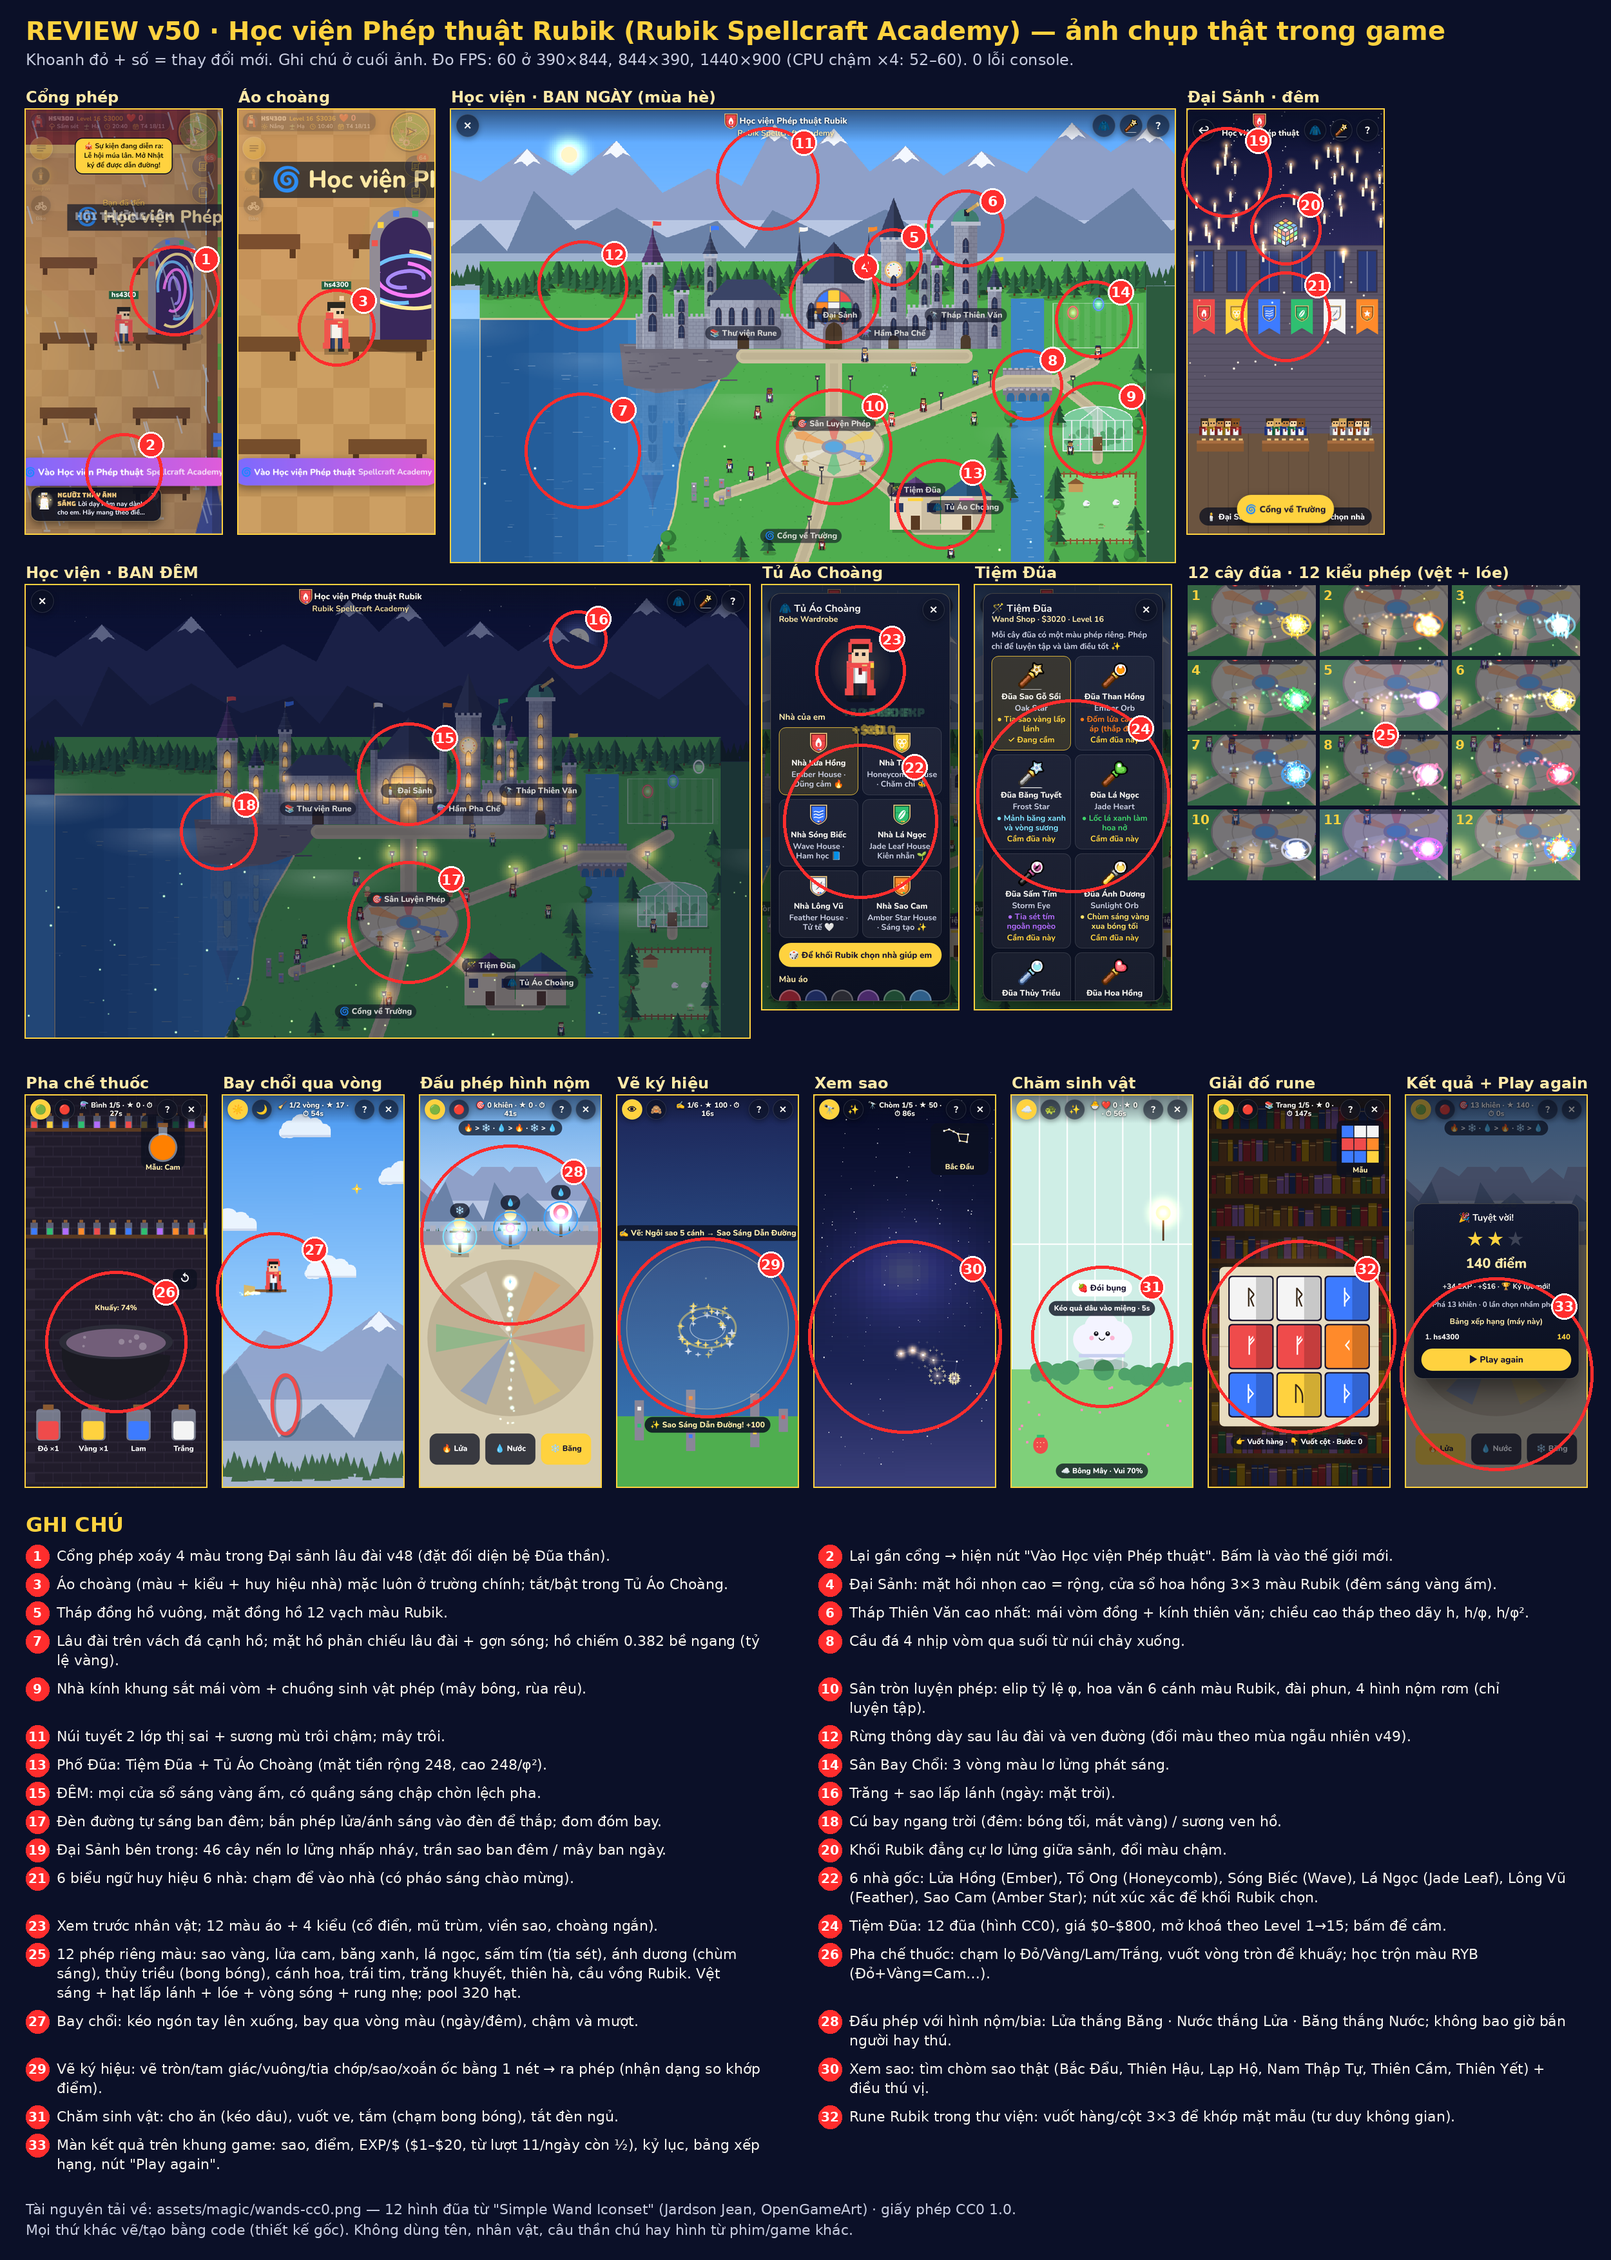
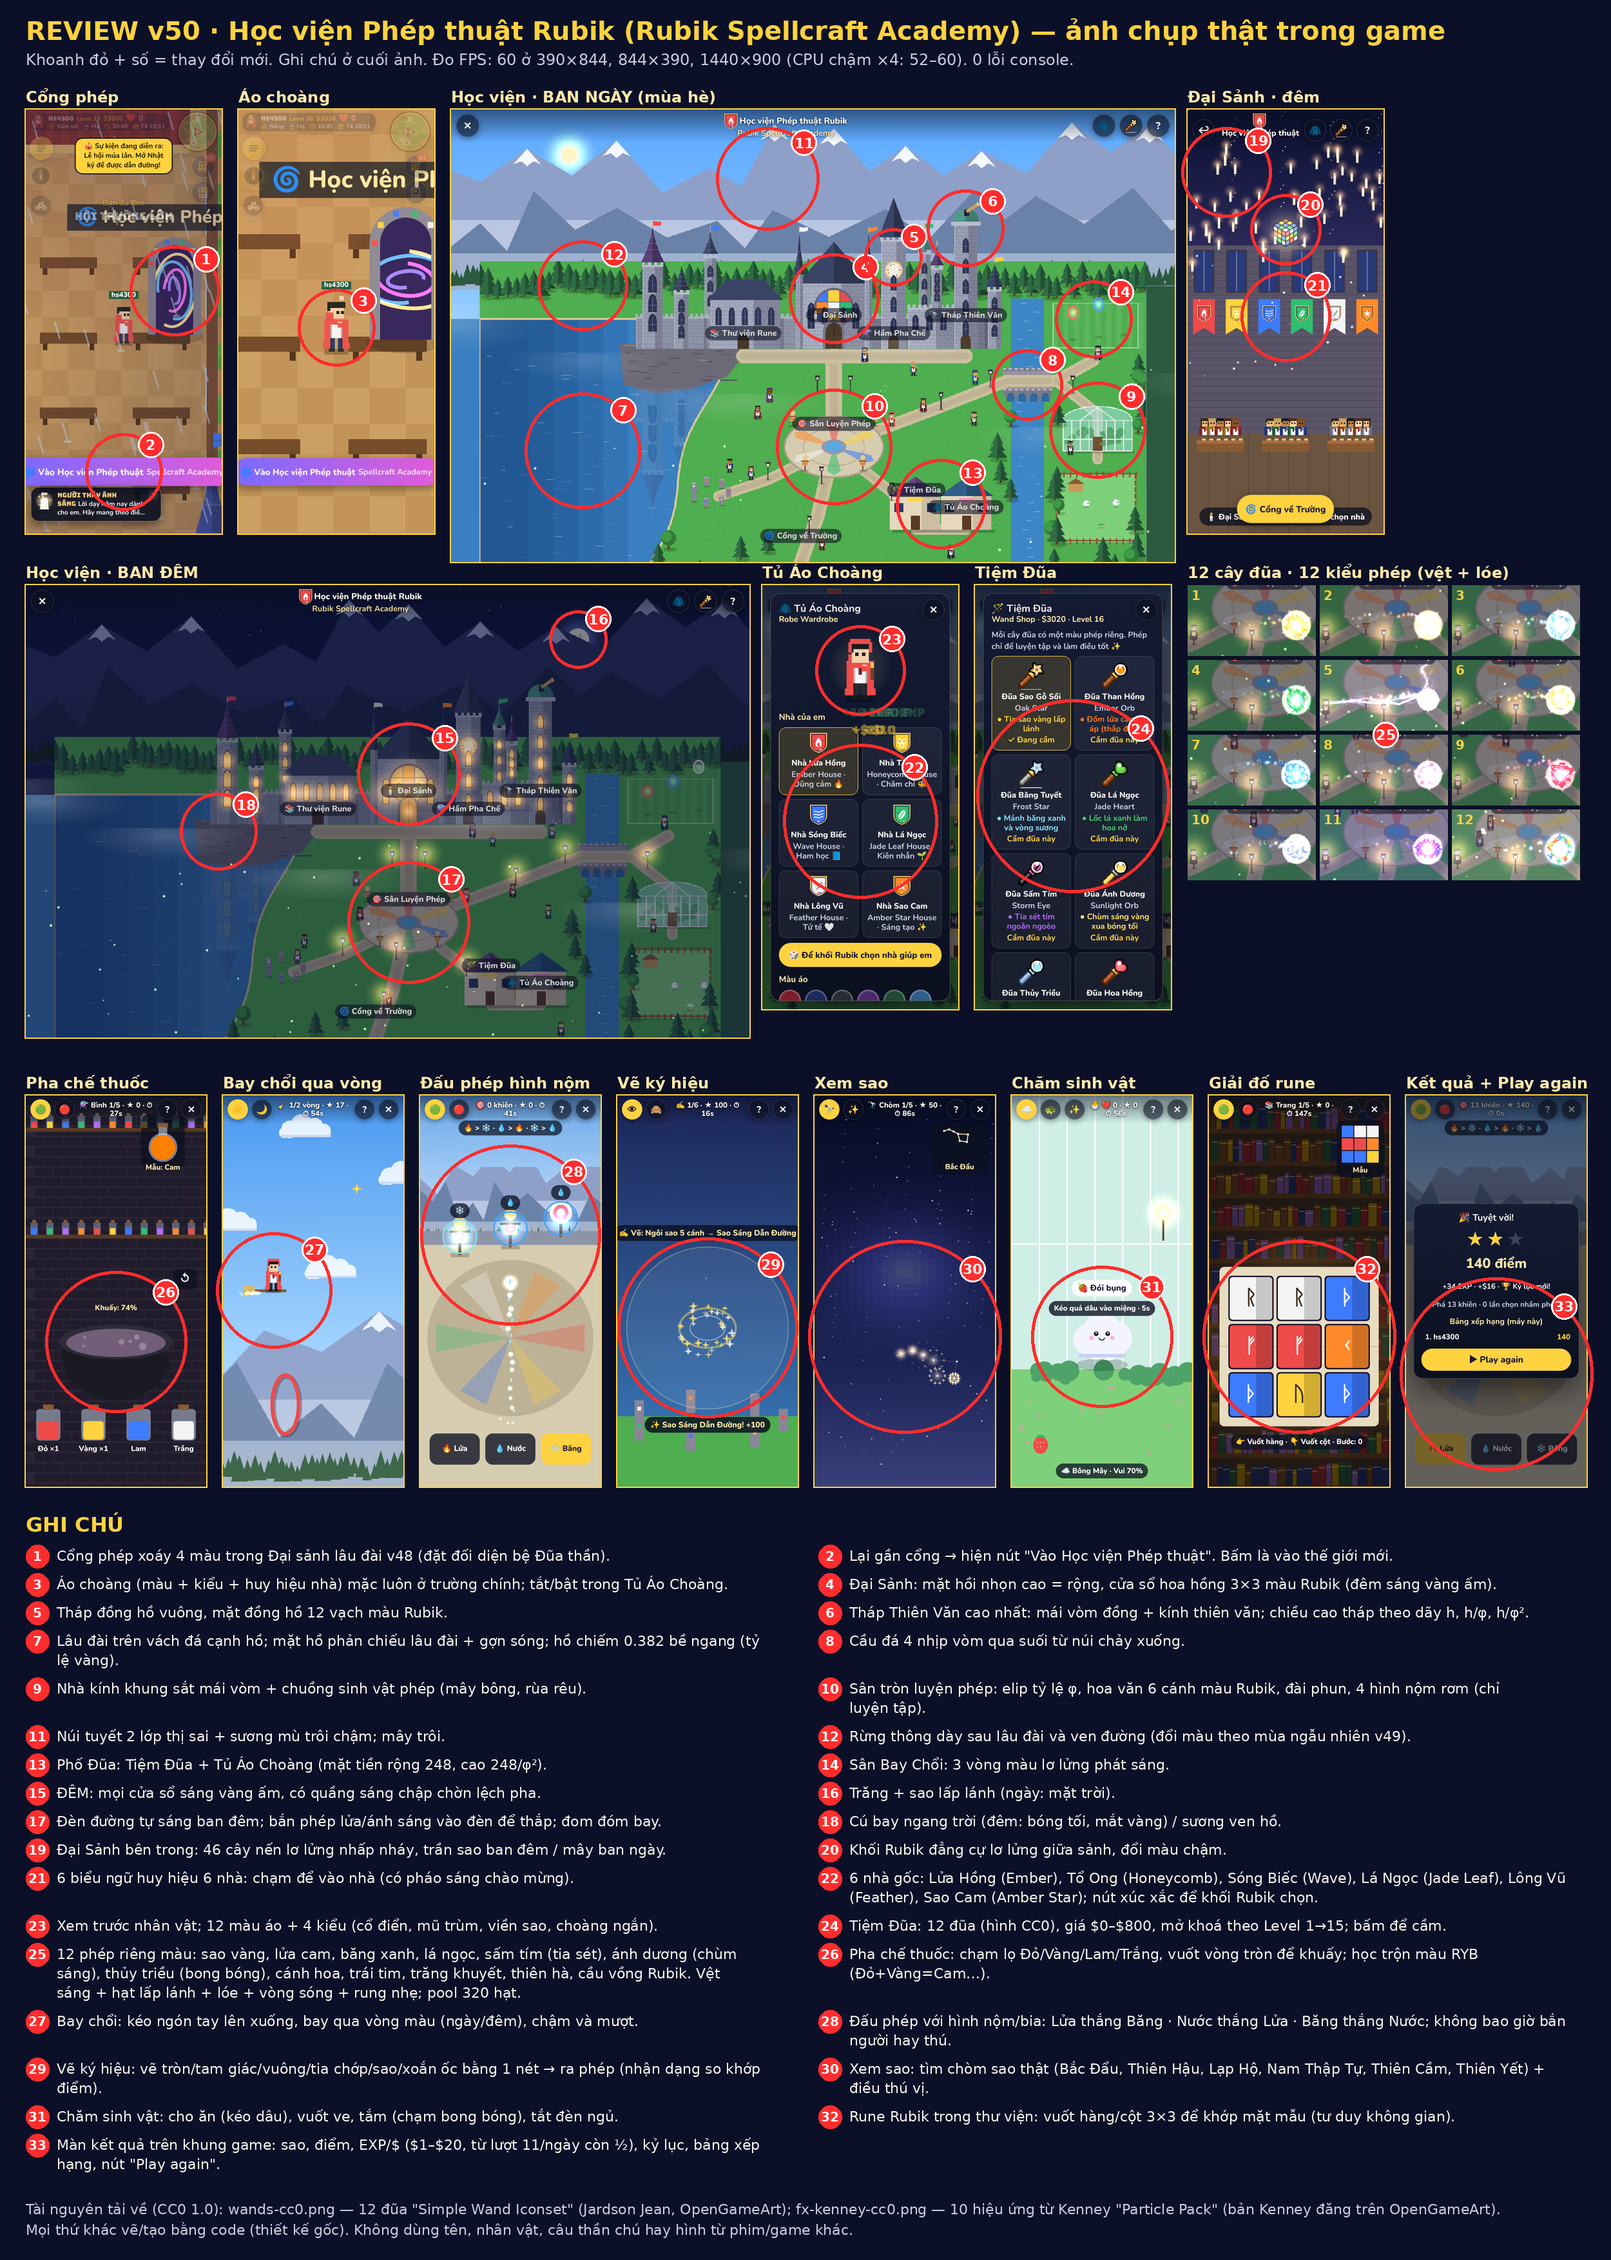
v50: thêm hiệu ứng phép từ Kenney Particle Pack (CC0)
- assets/magic/fx-kenney-cc0.png: 10 hình (vòng phép, lóe, vòng sóng, sao, nổ sáng,
  tia sét, xoáy, tim, vòng rune, lửa) 64px, nhuộm màu theo từng đũa lúc chạy, có cache
- Phép trúng đích: vòng sóng + lóe chữ thập + vòng phép (phép lớn), tia sét thật cho đũa Sấm,
  ngọn lửa, tim, xoáy thiên hà; đầu đạn phép có sao lấp lánh xoay
- Ghi nguồn CREDITS; cập nhật ảnh duyệt

Claude-Session: https://claude.ai/code/session_012QLWnAm9kfcTVAAQrhkbGB

Changed region(s): [[0.8424, 0.2486, 0.9672, 0.404], [0.7488, 0.2486, 0.8112, 0.404], [0.936, 0.373, 0.9672, 0.404]]

diff --git a/school/js/ext/v50-magic-core.js b/school/js/ext/v50-magic-core.js
@@ -126,9 +126,16 @@ function v50Burst(x, y, w, big){
     const img = sh === 'dot' ? v50Glow(col) : v50Shape(sh, col), gr = w.fx === 'fire' ? -60 : w.fx === 'ice' || w.fx === 'petal' || w.fx === 'leaf' ? 70 : w.fx === 'heart' || w.fx === 'tide' ? -50 : 0;
     v50P(x, y, Math.cos(a)*s*V50FX.k, Math.sin(a)*s*V50FX.k*(w.fx === 'moon' || w.fx === 'galaxy' ? .6 : 1), .6 + Math.random()*.6, (sh === 'dot' ? 11 : 8 + Math.random()*4)*V50FX.k, img, gr); }
   for(let i = 0; i < 6; i++) v50P(x, y, (Math.random() - .5)*30, (Math.random() - .5)*30, .3, 26*V50FX.k, v50Glow(w.c));
-  V50FX.rings.push({x, y, t:0, c:w.fx === 'rainbow' ? null : w.c, c2:w.c2, big:!!big}); if(V50FX.rings.length > 6) V50FX.rings.shift();
+  V50FX.rings.push({x, y, t:0, c:w.fx === 'rainbow' ? null : w.c, c2:w.c2, big:!!big, fx:w.fx, k:V50FX.k, rot:Math.random()*6.28}); if(V50FX.rings.length > 6) V50FX.rings.shift();
   V50FX.flash = Math.max(V50FX.flash, big ? .35 : .22); V50FX.fcol = w.fx === 'rainbow' ? '#fff8e0' : w.c2; V50FX.shake = Math.max(V50FX.shake, big ? .22 : .14); v50Snd('hit');
 }
+// ---------- hiệu ứng Kenney Particle Pack (CC0): atlas 10 ô 64px, nhuộm màu & cache ----------
+// 0 vòng phép · 1 lóe chữ thập · 2 vòng sóng · 3 sao lấp lánh · 4 nổ sáng · 5 tia sét · 6 xoáy · 7 trái tim · 8 vòng rune · 9 ngọn lửa
+function v50KImg(){ if(!V50.kimg){ V50.kimg = new Image(); V50.kimg.src = 'assets/magic/fx-kenney-cc0.png'; } return V50.kimg; }
+function v50KTex(i, col){ const im = v50KImg(); if(!im.complete || !im.naturalWidth) return null; const key = 'k' + i + col; let c = V50.shp.get(key); if(c) return c;
+  c = document.createElement('canvas'); c.width = c.height = 64; const g = c.getContext('2d'); g.drawImage(im, i*64, 0, 64, 64, 0, 0, 64, 64); g.globalCompositeOperation = 'source-in'; g.fillStyle = col; g.fillRect(0, 0, 64, 64);
+  g.globalCompositeOperation = 'lighter'; g.globalAlpha = .45; g.drawImage(im, i*64, 0, 64, 64, 0, 0, 64, 64); V50.shp.set(key, c); return c; }
+function v50KDraw(g, i, col, x, y, s, rot, a){ const t = v50KTex(i, col); if(!t) return false; g.globalAlpha = Math.max(0, Math.min(1, a)); if(rot){ g.save(); g.translate(x, y); g.rotate(rot); g.drawImage(t, -s/2, -s/2, s, s); g.restore(); } else g.drawImage(t, x - s/2, y - s/2, s, s); g.globalAlpha = 1; return true; }
 // tia sét: đường gấp khúc vẽ vài khung
 function v50Bolt(x0, y0, x1, y1, col){ const pts = [x0, y0], n = 7; for(let i = 1; i < n; i++){ const u = i/n; pts.push(x0 + (x1 - x0)*u + (Math.random() - .5)*28, y0 + (y1 - y0)*u + (Math.random() - .5)*28); } pts.push(x1, y1); V50FX.bolts.push({pts, t:0, col}); if(V50FX.bolts.length > 4) V50FX.bolts.shift(); }
 // cập nhật + vẽ đạn phép (trong toạ độ đang dùng của g)
@@ -138,15 +145,21 @@ function v50BDraw(g, dt){
     b.x = b.sx + (b.tx - b.sx)*e + nx/nl*wob; b.y = b.sy + (b.ty - b.sy)*e + ny/nl*wob - Math.sin(u*Math.PI)*(w.fx === 'tide' || w.fx === 'heart' ? 30 : 12);
     b.k += dt; const em = w.fx === 'sun' ? .006 : .016; while(b.k > em){ b.k -= em; const sh = V50_FXSH[w.fx], col = v50Col(w, j + Math.floor(b.t*60));
       const img = (sh === 'dot' || Math.random() < .55) ? v50Glow(col) : v50Shape(sh, col); v50P(b.x + (Math.random() - .5)*6, b.y + (Math.random() - .5)*6, (Math.random() - .5)*30, (Math.random() - .5)*30 + (w.fx === 'fire' ? -30 : 0), .45 + Math.random()*.3, (sh === 'dot' || img === V50.glow.get(col) ? 9 : 7)*V50FX.k, img, w.fx === 'fire' ? -40 : 0); }
-    g.globalCompositeOperation = 'lighter'; const gc = v50Glow(v50Col(w, j)); const K = V50FX.k; g.drawImage(gc, b.x - 22*K, b.y - 22*K, 44*K, 44*K); g.drawImage(v50Glow('#ffffff'), b.x - 8*K, b.y - 8*K, 16*K, 16*K);
+    g.globalCompositeOperation = 'lighter'; const gc = v50Glow(v50Col(w, j)); const K = V50FX.k; g.drawImage(gc, b.x - 22*K, b.y - 22*K, 44*K, 44*K); g.drawImage(v50Glow('#ffffff'), b.x - 8*K, b.y - 8*K, 16*K, 16*K); v50KDraw(g, 3, v50Col(w, j), b.x, b.y, 46*K, b.t*6, 1);
     if(w.fx === 'sun'){ g.globalAlpha = .55*(1 - u*.5); g.strokeStyle = w.c; g.lineWidth = 6; g.beginPath(); g.moveTo(b.sx, b.sy); g.lineTo(b.x, b.y); g.stroke(); g.strokeStyle = '#fff'; g.lineWidth = 2; g.stroke(); g.globalAlpha = 1; }
     g.globalCompositeOperation = 'source-over';
     if(u >= 1){ b.on = false; if(w.fx === 'thunder') v50Bolt(b.sx, b.sy, b.tx, b.ty, w.c); v50Burst(b.tx, b.ty, w, w.fx === 'rainbow' || w.fx === 'galaxy'); if(b.hit) try { b.hit(b.tx, b.ty, w); } catch(e){ console.warn('v50 hit', e); } } }
-  for(let i = V50FX.rings.length - 1; i >= 0; i--){ const r = V50FX.rings[i]; r.t += dt; const T = r.big ? .7 : .5; if(r.t > T){ V50FX.rings.splice(i, 1); continue; } const u = r.t/T, R = (14 + u*(r.big ? 90 : 60))*V50FX.k;
-    g.globalAlpha = 1 - u; g.lineWidth = (r.big ? 7 : 5)*(1 - u) + 1; g.strokeStyle = r.c || V50_RUBIK[Math.floor(r.t*20) % 6]; g.beginPath(); g.ellipse(r.x, r.y, R, R*.7, 0, 0, 6.2832); g.stroke();
-    g.strokeStyle = r.c2; g.lineWidth = 2; g.beginPath(); g.ellipse(r.x, r.y, R*.62, R*.43, 0, 0, 6.2832); g.stroke(); g.globalAlpha = 1; }
+  for(let i = V50FX.rings.length - 1; i >= 0; i--){ const r = V50FX.rings[i]; r.t += dt; const T = r.big ? .8 : .55; if(r.t > T){ V50FX.rings.splice(i, 1); continue; } const u = r.t/T, K = r.k || 1, R = (14 + u*(r.big ? 90 : 60))*K, col = r.c || V50_RUBIK[Math.floor(r.t*20) % 6];
+    g.globalCompositeOperation = 'lighter';
+    if(v50KTex(2, col)){ // vòng sóng, lóe chữ thập, vòng phép (Kenney CC0)
+      v50KDraw(g, 2, col, r.x, r.y, R*2.4, 0, (1 - u)*1.1); if(u < .45) v50KDraw(g, 1, r.c2, r.x, r.y, (40 + u*160)*K, r.rot, 1 - u/.45);
+      if(r.big) v50KDraw(g, r.fx === 'galaxy' ? 0 : 8, col, r.x, r.y, (70 + u*60)*K, r.rot + r.t*2, (1 - u)*.9);
+      const sp = {thunder:5, fire:9, heart:7, galaxy:6, rainbow:6, moon:6, tide:6, sun:4, spark:4}[r.fx];
+      if(sp != null){ const a = 1 - u; if(sp === 9) v50KDraw(g, 9, col, r.x, r.y - 30*K*u, 70*K, 0, a); else if(sp === 5) v50KDraw(g, 5, col, r.x, r.y - 30*K, 90*K, 0, a*(Math.floor(r.t*30) % 2 ? .4 : 1)); else if(sp === 7) v50KDraw(g, 7, col, r.x, r.y - 40*K*u, 36*K, 0, a); else v50KDraw(g, sp, col, r.x, r.y, (50 + u*70)*K, r.rot - r.t*4, a); } }
+    else { g.globalAlpha = 1 - u; g.lineWidth = (r.big ? 7 : 5)*(1 - u) + 1; g.strokeStyle = col; g.beginPath(); g.ellipse(r.x, r.y, R, R*.7, 0, 0, 6.2832); g.stroke(); g.strokeStyle = r.c2; g.lineWidth = 2; g.beginPath(); g.ellipse(r.x, r.y, R*.62, R*.43, 0, 0, 6.2832); g.stroke(); }
+    g.globalAlpha = 1; g.globalCompositeOperation = 'source-over'; }
   for(let i = V50FX.bolts.length - 1; i >= 0; i--){ const o = V50FX.bolts[i]; o.t += dt; if(o.t > .32){ V50FX.bolts.splice(i, 1); continue; }
-    if(Math.floor(o.t*30) % 2) continue; g.globalCompositeOperation = 'lighter'; g.strokeStyle = o.col; g.lineWidth = 5; g.globalAlpha = .7; g.beginPath(); for(let k = 0; k < o.pts.length; k += 2) k ? g.lineTo(o.pts[k], o.pts[k + 1]) : g.moveTo(o.pts[k], o.pts[k + 1]); g.stroke();
+    if(Math.floor(o.t*30) % 2) continue; g.globalCompositeOperation = 'lighter'; { const x0 = o.pts[0], y0 = o.pts[1], x1 = o.pts[o.pts.length - 2], y1 = o.pts[o.pts.length - 1], tx = v50KTex(5, o.col); if(tx){ g.save(); g.translate((x0 + x1)/2, (y0 + y1)/2); g.rotate(Math.atan2(y1 - y0, x1 - x0) + Math.PI/2); const L = Math.hypot(x1 - x0, y1 - y0); g.globalAlpha = .9; g.drawImage(tx, -30, -L/2, 60, L); g.restore(); } } g.strokeStyle = o.col; g.lineWidth = 5; g.globalAlpha = .7; g.beginPath(); for(let k = 0; k < o.pts.length; k += 2) k ? g.lineTo(o.pts[k], o.pts[k + 1]) : g.moveTo(o.pts[k], o.pts[k + 1]); g.stroke();
     g.strokeStyle = '#fff'; g.lineWidth = 2; g.globalAlpha = 1; g.stroke(); g.globalCompositeOperation = 'source-over'; }
 }
 function v50BClear(){ V50B.forEach(b => { b.on = false; }); V50FX.bolts.length = 0; V50FX.rings.length = 0; V50FX.flash = 0; V50FX.shake = 0; }
@@ -155,7 +168,7 @@ function v50Flash(g, W, H, dt){ if(V50FX.flash <= 0) return; g.globalCompositeOp
 function v50Shake(dt){ if(V50FX.shake <= 0) return [0, 0]; V50FX.shake = Math.max(0, V50FX.shake - dt); const k = V50FX.shake*22; return [(Math.random() - .5)*k, (Math.random() - .5)*k]; }
 
 // ---------- hình đũa (atlas CC0) + dự phòng vẽ bằng code ----------
-function v50WandImg(){
+function v50WandImg(){ v50KImg();
   if(V50.img) return V50.img; const im = new Image(); im.src = 'assets/magic/wands-cc0.png'; V50.img = im; return im;
 }
 function v50DrawWand(g, i, x, y, s){
